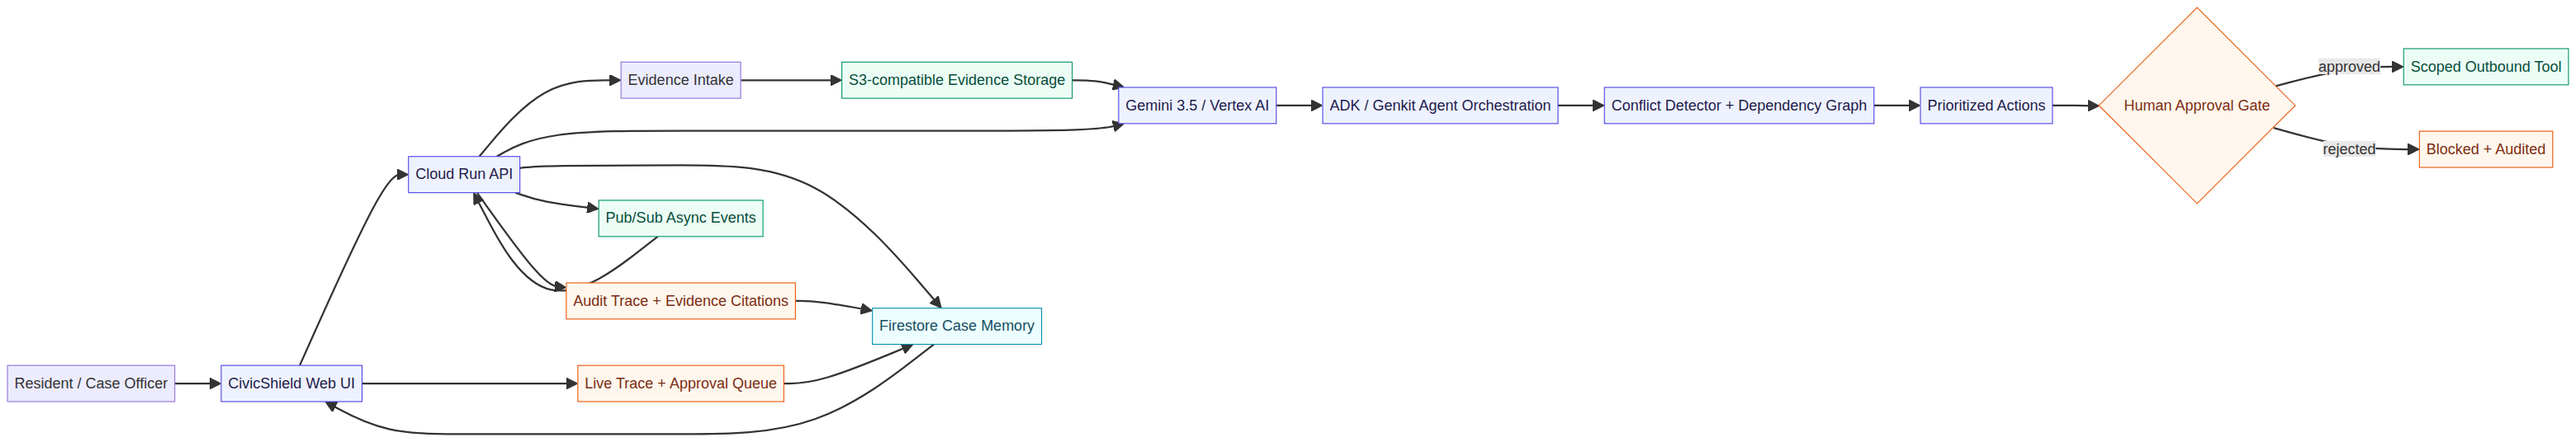
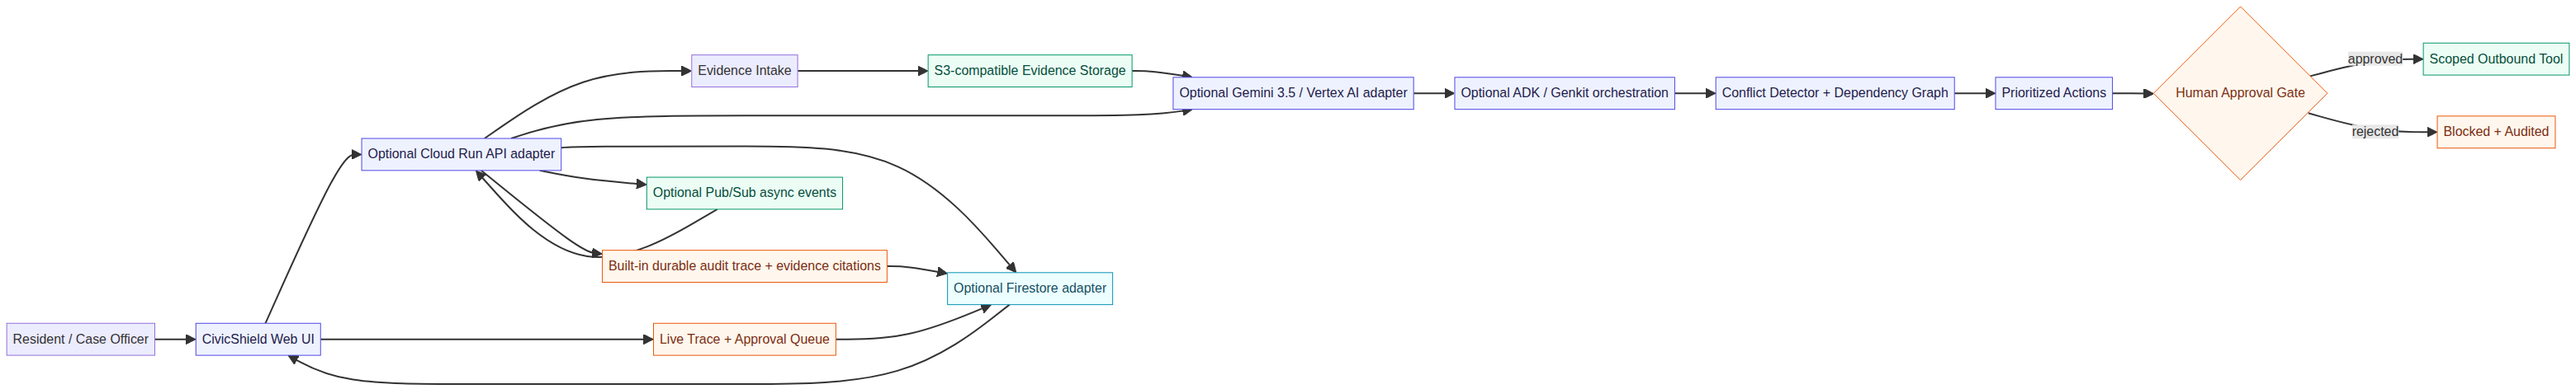
Checkpoint: No-cost CivicShield checkpoint: validated built-in LLM workflow, S3-compatible evidence upload, multimodal PDF/image handoff, persisted case drafts/checklists, dynamic action graph, granular trace milestones, approval gates, polished branded UI, optional-adapter architecture language, up

Changed region(s): [[0.0, 0.089, 1.0, 1.0], [0.9016, 0.2966, 0.9949, 0.3856], [0.1865, 0.2373, 0.2176, 0.2669]]

diff --git a/client/src/pages/Home.tsx b/client/src/pages/Home.tsx
@@ -32,13 +32,13 @@ function StatusPill({ status }: { status: string }) {
 function ArchitecturePage() {
   const nodes = [
     ["Document intake", "PDF · image · text", "border-blue-200 bg-blue-50 text-blue-900"],
-    ["Gemini 3.5", "extract · plan · draft", "border-violet-200 bg-violet-50 text-violet-900"],
-    ["ADK / Genkit", "orchestrate tools", "border-orange-200 bg-orange-50 text-orange-900"],
-    ["Cloud Run", "secure execution", "border-emerald-200 bg-emerald-50 text-emerald-900"],
-    ["Firestore", "case memory", "border-cyan-200 bg-cyan-50 text-cyan-900"],
-    ["Pub/Sub", "async events", "border-pink-200 bg-pink-50 text-pink-900"],
+    ["Built-in LLM proxy", "Gemini-compatible extraction · plan · draft", "border-violet-200 bg-violet-50 text-violet-900"],
+    ["Optional ADK / Genkit", "production orchestration adapter", "border-orange-200 bg-orange-50 text-orange-900"],
+    ["Optional Cloud Run", "production execution adapter", "border-emerald-200 bg-emerald-50 text-emerald-900"],
+    ["Optional Firestore", "production memory adapter", "border-cyan-200 bg-cyan-50 text-cyan-900"],
+    ["Optional Pub/Sub", "production event adapter", "border-pink-200 bg-pink-50 text-pink-900"],
   ];
-  return <div className="space-y-6"><div className="grid gap-4 md:grid-cols-3">{nodes.map(([name, detail, style]) => <div key={name} className={`rounded-2xl border p-5 ${style}`}><div className="mb-5 flex items-center justify-between"><Network className="h-5 w-5" /><span className="text-[10px] font-black uppercase tracking-[0.2em]">CivicShield</span></div><p className="text-lg font-semibold">{name}</p><p className="mt-1 text-sm opacity-70">{detail}</p></div>)}</div><Card className="overflow-hidden border-0 bg-slate-950 text-white shadow-xl"><CardContent className="p-6"><div className="flex flex-wrap items-center justify-center gap-3 text-center text-sm"><span className="rounded-xl border border-white/20 px-4 py-3">Evidence</span><ArrowUpRight className="h-4 w-4 text-violet-300" /><span className="rounded-xl border border-violet-400/60 bg-violet-400/10 px-4 py-3">Gemini 3.5 + ADK / Genkit</span><ArrowUpRight className="h-4 w-4 text-emerald-300" /><span className="rounded-xl border border-emerald-400/60 bg-emerald-400/10 px-4 py-3">Cloud Run</span><ArrowUpRight className="h-4 w-4 text-cyan-300" /><span className="rounded-xl border border-cyan-400/60 bg-cyan-400/10 px-4 py-3">Firestore memory</span><ArrowUpRight className="h-4 w-4 text-pink-300" /><span className="rounded-xl border border-pink-400/60 bg-pink-400/10 px-4 py-3">Pub/Sub events</span></div><div className="mt-6 grid gap-3 border-t border-white/10 pt-5 text-xs text-slate-300 md:grid-cols-3"><p><b className="text-white">Safety:</b> scoped tools, evidence citations, human approval gates.</p><p><b className="text-white">Resilience:</b> durable case state, resumable action graph, idempotent steps.</p><p><b className="text-white">Proof:</b> live trace, audit history, reproducible architecture.</p></div></CardContent></Card></div>;
+  return <div className="space-y-6"><div className="grid gap-4 md:grid-cols-3">{nodes.map(([name, detail, style]) => <div key={name} className={`rounded-2xl border p-5 ${style}`}><div className="mb-5 flex items-center justify-between"><Network className="h-5 w-5" /><span className="text-[10px] font-black uppercase tracking-[0.2em]">CivicShield</span></div><p className="text-lg font-semibold">{name}</p><p className="mt-1 text-sm opacity-70">{detail}</p></div>)}</div><Card className="overflow-hidden border-0 bg-slate-950 text-white shadow-xl"><CardContent className="p-6"><div className="flex flex-wrap items-center justify-center gap-3 text-center text-sm"><span className="rounded-xl border border-white/20 px-4 py-3">Evidence</span><ArrowUpRight className="h-4 w-4 text-violet-300" /><span className="rounded-xl border border-violet-400/60 bg-violet-400/10 px-4 py-3">Built-in LLM · optional Gemini 3.5 adapter</span><ArrowUpRight className="h-4 w-4 text-emerald-300" /><span className="rounded-xl border border-emerald-400/60 bg-emerald-400/10 px-4 py-3">Optional Cloud Run</span><ArrowUpRight className="h-4 w-4 text-cyan-300" /><span className="rounded-xl border border-cyan-400/60 bg-cyan-400/10 px-4 py-3">Optional Firestore memory</span><ArrowUpRight className="h-4 w-4 text-pink-300" /><span className="rounded-xl border border-pink-400/60 bg-pink-400/10 px-4 py-3">Optional Pub/Sub events</span></div><div className="mt-6 grid gap-3 border-t border-white/10 pt-5 text-xs text-slate-300 md:grid-cols-3"><p><b className="text-white">Safety:</b> scoped tools, evidence citations, human approval gates.</p><p><b className="text-white">Resilience:</b> durable case state, resumable action graph, idempotent steps.</p><p><b className="text-white">Proof:</b> live trace, audit history, reproducible architecture.</p></div></CardContent></Card></div>;
 }
 
 function BuildLogPage() {

diff --git a/submission/REPOSITORY_HANDOFF.md b/submission/REPOSITORY_HANDOFF.md
@@ -23,8 +23,8 @@ Run `pnpm install`, configure the managed project environment, then run `pnpm de
 
 ## Deployment notes
 
-The project is designed for managed Cloud Run-style deployment. Do not commit `.env` files, service-account keys, user documents, or private credentials. Before the final video, verify the Gemini 3.5+ / Vertex AI model identifier and provide the Cloud Run and Google Cloud proof requested by the hackathon. The architecture page intentionally names ADK / Genkit, Cloud Run, Firestore, and Pub/Sub so the production mapping is explicit.
+The project is designed for managed Cloud Run-style deployment. Do not commit `.env` files, service-account keys, user documents, or private credentials. The no-cost demo does not require Google Cloud credentials, billing, Gemini 3.5+/Vertex AI verification, or Cloud Run proof. If those optional adapters are added later, document them separately without changing the free-path setup. The architecture page intentionally names ADK / Genkit, Cloud Run, Firestore, and Pub/Sub so the production mapping is explicit.
 
 ## Devpost handoff
 
-Paste the final public repository URL into the Devpost submission, attach the public demo video, upload `ARCHITECTURE.png`, and use the copy in `SUBMISSION_COPY.md`. Confirm that the video shows the live trace, evidence citations, approval gate, and the Google Cloud deployment proof. Do not claim that a message was sent or a form was submitted unless the action was actually approved and executed in the connected environment.
+Paste the final public repository URL into the Devpost submission, attach the public demo video, upload `ARCHITECTURE.png`, and use the copy in `SUBMISSION_COPY.md`. Confirm that the video shows the live trace, evidence citations, approval gate, persisted draft, and architecture page. Google Cloud deployment proof is optional and should not be described as part of the no-cost path. Do not claim that a message was sent or a form was submitted unless the action was actually approved and executed in the connected environment.

diff --git a/submission/SUBMISSION_COPY.md b/submission/SUBMISSION_COPY.md
@@ -20,7 +20,7 @@ CivicShield is built around **deadline rescue under uncertainty**. It does not s
 
 ## Technology
 
-The prototype uses Gemini through the server-side LLM integration, a Google agent-framework-compatible orchestration model represented as ADK / Genkit in the architecture, S3-compatible evidence storage, a relational case-memory schema aligned to Firestore concepts, and asynchronous event concepts aligned to Pub/Sub. The production submission should show the verified Gemini 3.5 or newer model and Google Cloud deployment proof in the video.
+The prototype uses the built-in server-side LLM integration, S3-compatible evidence storage, durable case memory, and persisted asynchronous-style trace events. The architecture page also documents an optional production adapter for Gemini 3.5 / Vertex AI, ADK / Genkit, Cloud Run, Firestore, and Pub/Sub; the free demo does not require Google Cloud billing, private credentials, or a paid account.
 
 ## Demo scenario
 
@@ -45,4 +45,4 @@ Use [`REPOSITORY_HANDOFF.md`](./REPOSITORY_HANDOFF.md) for the GitHub README str
 
 ## Final submission checklist
 
-Before submitting, replace the prototype’s current model/deployment note with the verified Gemini 3.5+ model identifier, attach Cloud Run / Vertex AI proof to the video, provide the public GitHub repository, publish the final four-minute video, and include the architecture diagram asset.
+Before submitting, provide the public GitHub repository, publish the final four-minute video, and include the architecture diagram asset. If Google Cloud access later becomes available, the optional Gemini 3.5 / Vertex AI adapter and Cloud Run proof can be added without changing the core safety workflow.

diff --git a/todo.md b/todo.md
@@ -19,6 +19,10 @@
 - [x] Run typecheck, tests, and visual verification before checkpoint
 - [x] Prepare submission copy, demo script, architecture asset, and repository instructions (repository/video/cloud proof remain external submission steps)
 
-- [ ] Connect and verify a Gemini 3.5+ / Vertex AI model identifier and Google Cloud credentials before final submission
-- [ ] Replace polling-only trace refresh with SSE or WebSocket streaming if the final judging rubric requires strict streaming semantics
-- [ ] Record and attach a public four-minute demo video, repository URL, and Cloud Run / Vertex AI proof
+- [x] Defer Gemini 3.5+ / Vertex AI model verification and Google Cloud credentials because the no-cost built-in LLM path is the selected submission scope
+- [x] Keep persisted trace polling as the no-cost implementation; strict SSE/WebSocket streaming remains an optional enhancement
+- [x] Prepare the no-cost four-minute demo handoff; public video and repository URL remain user-owned external publishing steps, while Cloud Run / Vertex AI proof is optional
+
+- [x] Switch final submission scope to the built-in LLM path with no Google Cloud billing or private credentials
+- [x] Update architecture and Devpost copy to label Gemini 3.5 / Vertex AI / Cloud Run / Firestore / Pub/Sub as optional production adapters
+- [x] Remove the blocked credential and cloud-proof requirements from the no-cost demo handoff

diff --git a/submission/DEMO_SCRIPT.md b/submission/DEMO_SCRIPT.md
@@ -26,4 +26,4 @@ Open **Architecture**. Show the required chain: Gemini 3.5, ADK / Genkit, Cloud 
 
 ## Recording checklist
 
-Record the Google Cloud deployment proof in the same video: the Cloud Run URL or Cloud Console, the Gemini / Vertex AI execution, and the persistent case state. Keep the final video public, in English or with English subtitles, and under four minutes.
+The free path is recordable without Google Cloud credentials: show the hosted CivicShield dashboard, synthetic evidence, persisted trace, generated draft, approval gate, and architecture page. If a Google Cloud adapter is added later, it can be shown as an optional extension. Keep the final video public, in English or with English subtitles, and under four minutes.
